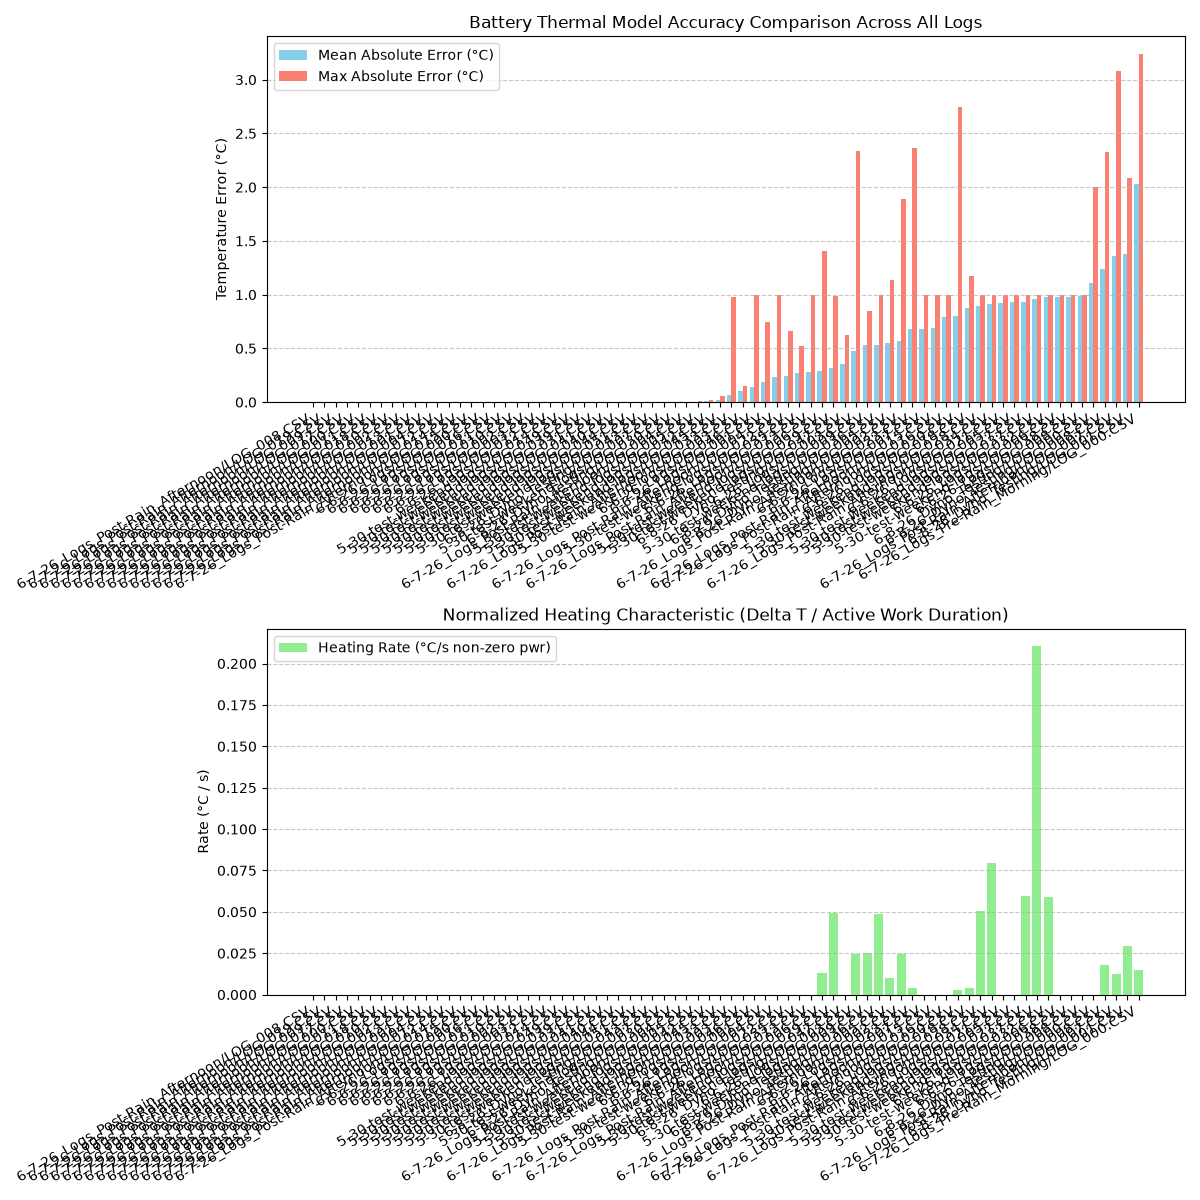
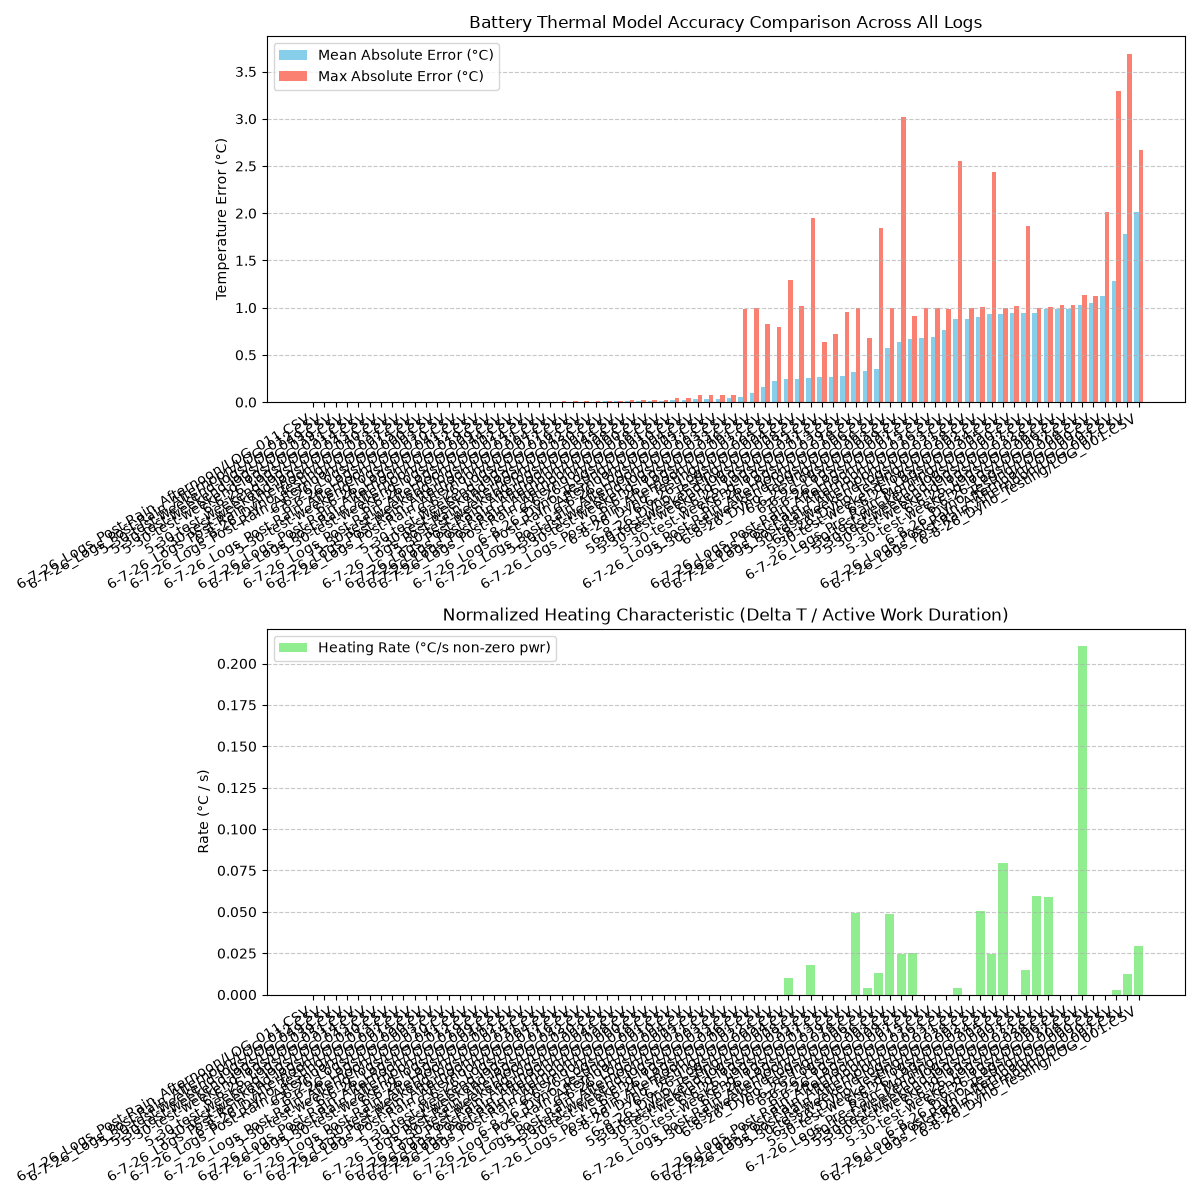
post optimized thermals and pre dcr finish

diff --git a/ai sim/simulation/tb_thermal.py b/ai sim/simulation/tb_thermal.py
@@ -16,13 +16,13 @@ class TractiveBatteryThermal:
         self.ambient_temp = ambient_temp
         
         # Thermal model constants
-        self.cell_cp = self.params.get('battery_cp', 955.0) # Specific heat capacity of the cells (J/kg*K)
+        self.cell_cp = self.params.get('battery_cp', 1377.265173) # Specific heat capacity of the cells (J/kg*K)
         self.cell_mass = self.params.get('cell_mass', 0.2667)
         self.cell_count = self.params.get('num_cells', 140)
 
         # Internal Fan-specific constants (CR30/CR31 Monocoque)
         # Cooling is provided by an array of 10-12 internal fans.
-        self.h_fan = self.params.get('h_fan', 0.0)       # Forced convection coefficient from internal fans (W/m^2*K)
+        self.h_fan = self.params.get('h_fan', 0.717338)       # Forced convection coefficient from internal fans (W/m^2*K)
         self.cell_surface_area = self.params.get('cell_surface_area', 1.1) # Estimated total surface area (m^2)
 
     def calculate_heat_removed(self, battery_temp, velocity=None):

diff --git a/ai sim/simulation/main.py b/ai sim/simulation/main.py
@@ -29,7 +29,10 @@ class SimulationEngine:
             'front_motor_max_rpm': 20000.0, 'front_gear_ratio': 13.4,
             'rear_efficiency_csv': 'emrax208_efficiency.csv',
             'regen_enabled': True,
-            'max_regen_power_kw': 2.0
+            'max_regen_power_kw': 2.0,
+            'dcir_safety_factor': 1.5, # optmized 1.096226
+            'battery_cp': 1377.265173,
+            'h_fan': 0.717338
         }
         if params: self.p.update(params)
         self.mode = self.p.get('mode', 'Endurance')

diff --git a/ai sim/simulation/motor.py b/ai sim/simulation/motor.py
@@ -15,7 +15,7 @@ class Battery:
         # Total pack resistance including junctions (rbj)
         self.r_cell = self.params.get('r_cell', 0.0001)
         self.r_internal = self.n_series * self.r_cell
-        self.dcir_safety_factor = self.params.get('dcir_safety_factor', 1.0)
+        self.dcir_safety_factor = self.params.get('dcir_safety_factor', 1.096226)
 
         self.last_heat_gen = 0.1            # Small initial heat to avoid zero rise at start
         self.peak_power_capability = 80000.0 # 80kW FSAE Limit
